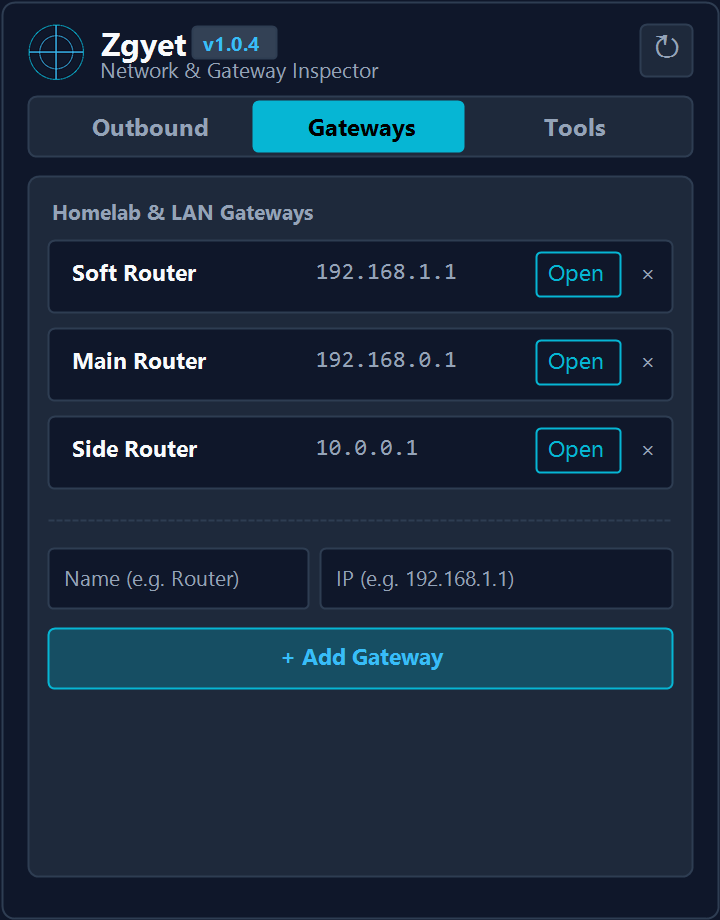
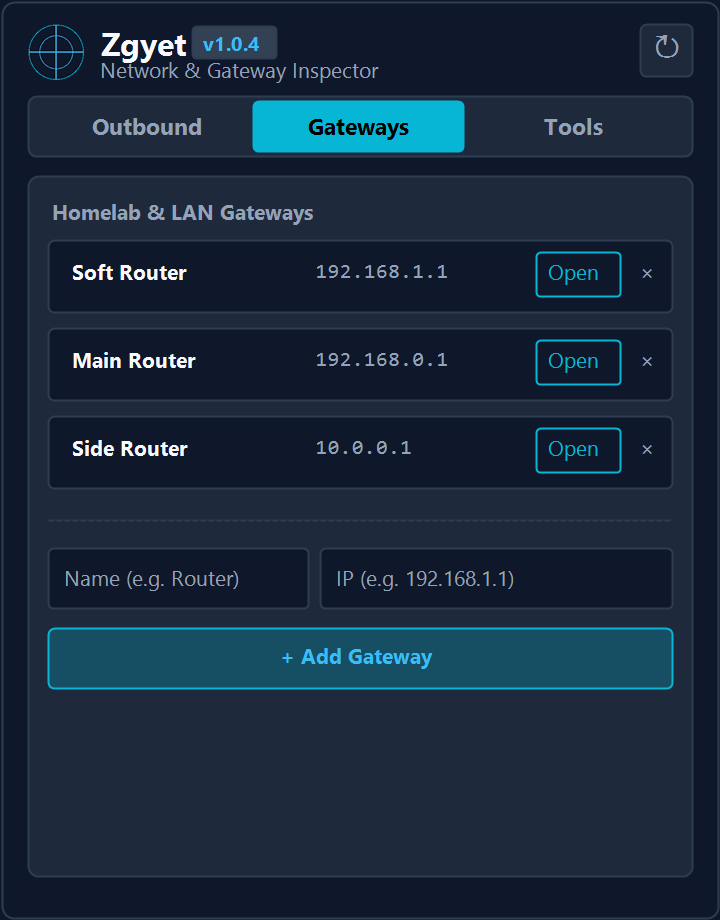
style(ui): ensure perfect dynamic layout spacing across all languages, prevent badge collisions, update preview screenshots

diff --git a/styles.css b/styles.css
@@ -24,7 +24,7 @@
 }
 
 body {
-  width: 350px;
+  width: 360px;
   min-height: 440px;
   font-family: -apple-system, BlinkMacSystemFont, "Segoe UI", Roboto, "Helvetica Neue", Arial, sans-serif;
   background-color: var(--bg-primary);
